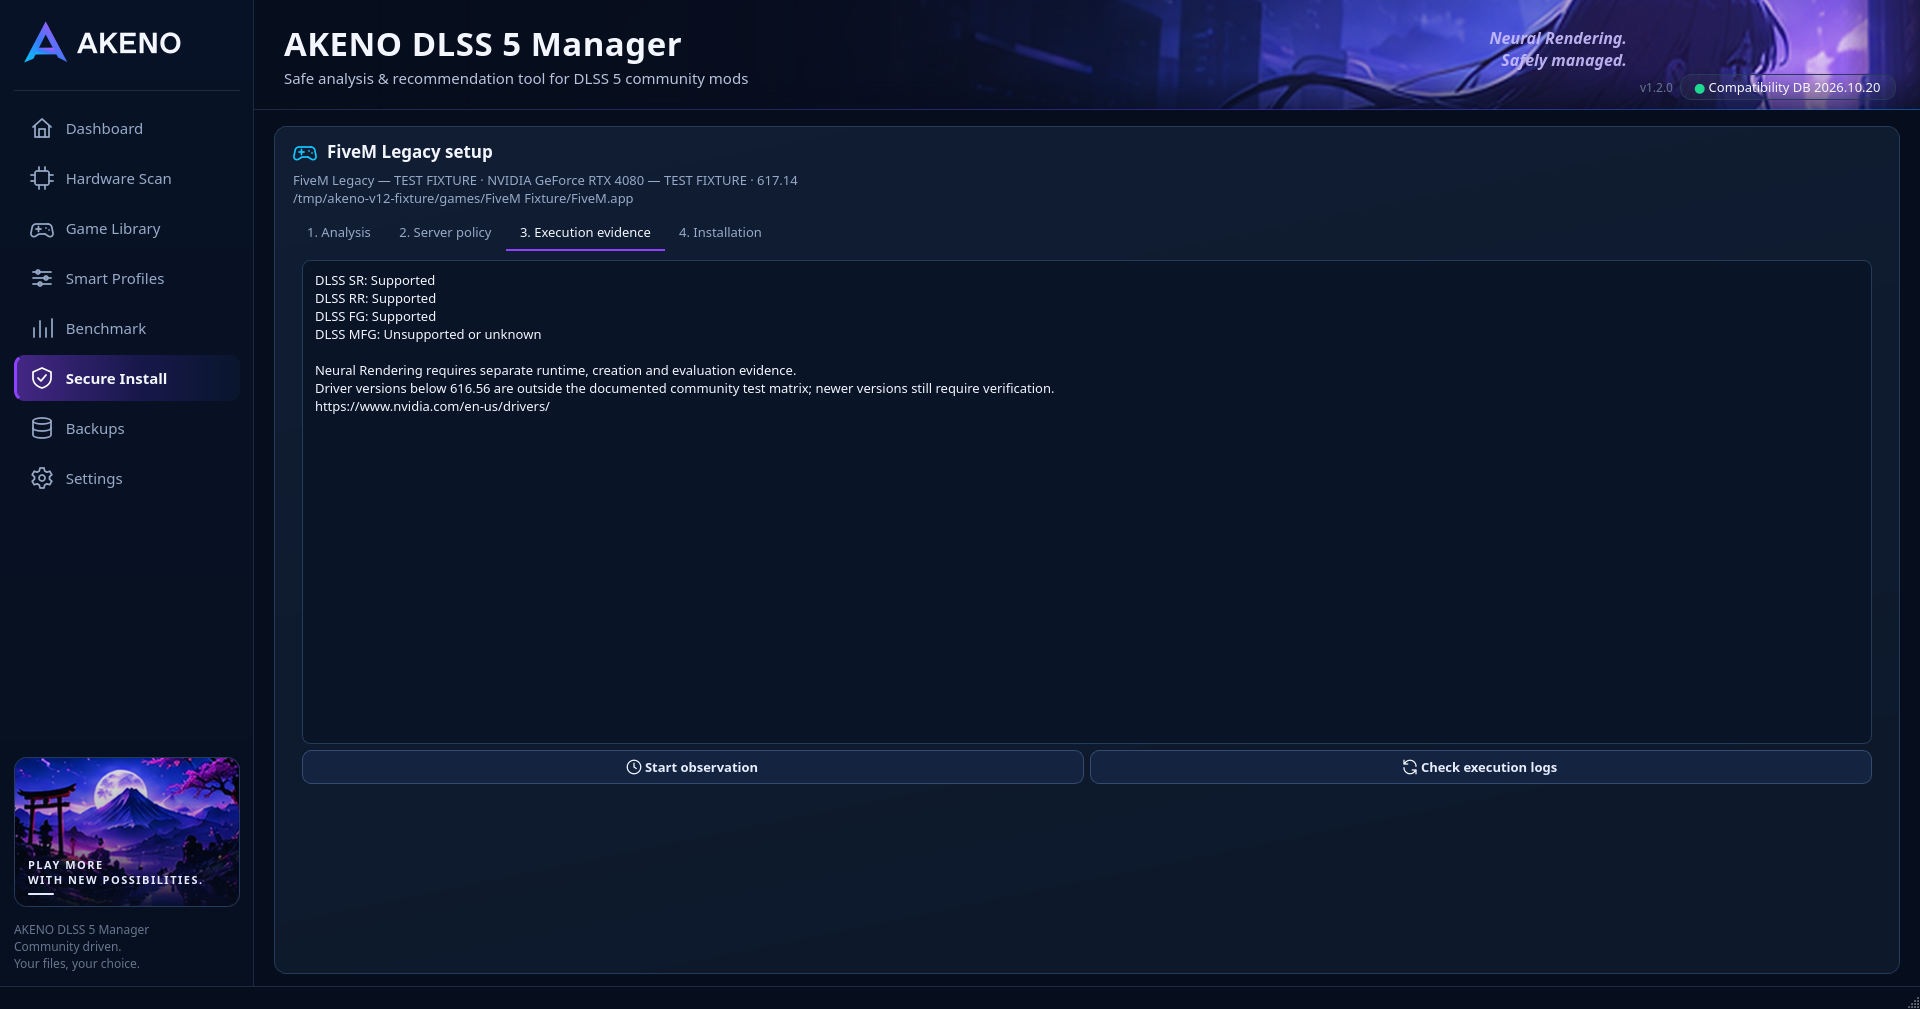
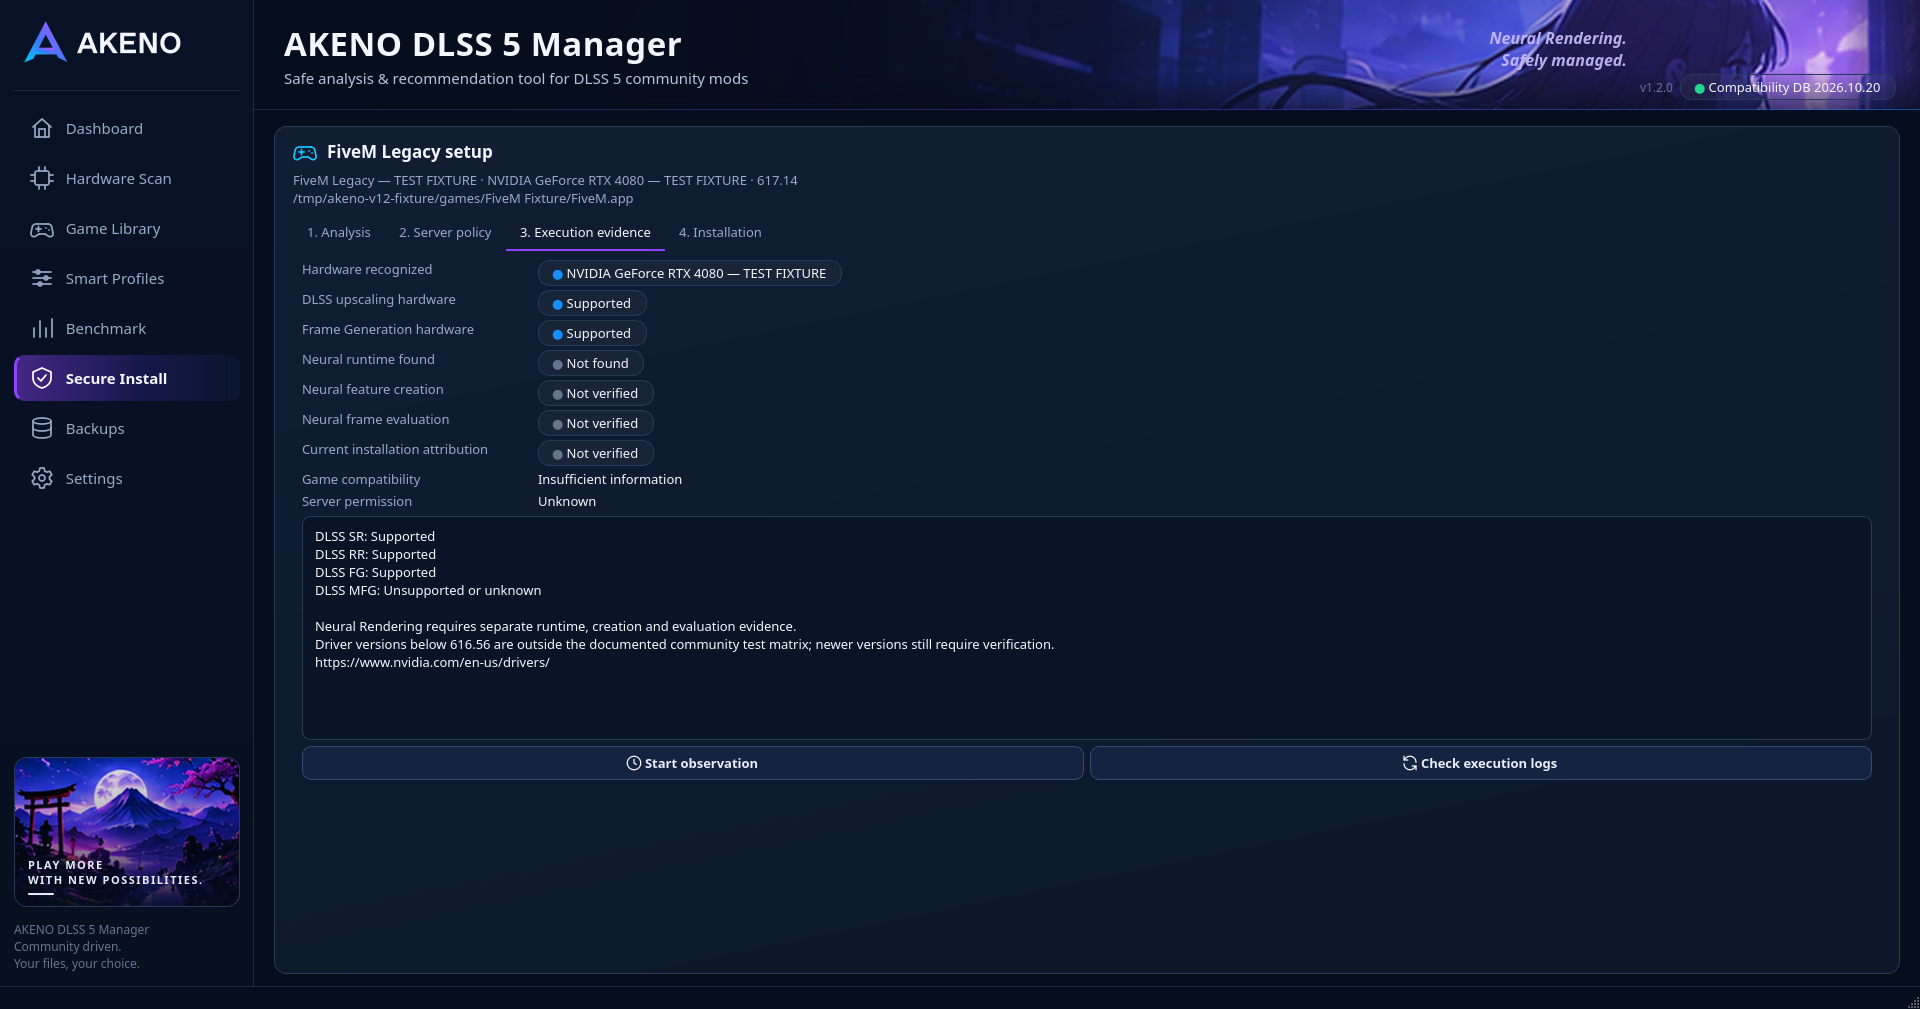
docs: record final source tests and refresh integrated FiveM screenshots

diff --git a/docs/FIVEM_LEGACY.md b/docs/FIVEM_LEGACY.md
@@ -56,7 +56,7 @@ See [FIVEM_RESEARCH.md](FIVEM_RESEARCH.md) for pinned source links and limitatio
 
 There is no automatic fallback from neural rendering to ordinary DLSS SR, frame generation, ReShade sharpening or a patched model with a "supported" label. The RTX 4080 has relevant hardware capabilities, but that is separate from this runtime/model and FiveM route being supported. The retrieved NVIDIA developer DLSS page describes DLSS 4/4.5 features; it does not establish official FiveM DLSS 5 support.
 
-## Integration contract for the launcher follow-up
+## Integrated launcher contract
 
 Use `FiveMService(app_services)` from `akeno.fivem.service`; it reuses the existing registry, catalog, compatibility database, runtime import and transactional storage. Keep the existing checkout: cloud tasks are already isolated, and no Git worktree is needed. The integration branch combines the completed v1.1 launcher and existing FiveM work. All eight pages and the original design assets are preserved.
 
@@ -73,7 +73,7 @@ for installation in five_m.discover():
     # Default has insufficient evidence, with specific missing-permission/evidence findings; deployment stays disabled.
 ```
 
-Future UI work must preserve the `FiveMInstallation` alongside its shared `Game` and keep the FiveM identity out of the generic GTA/manual discovery path. `as_raw_game` is the Game Discovery bridge; generic reanalysis alone loses FiveM-specific evidence and target rules. Do not call the generic UI install path for these plans: use `FiveMService.prepare`, `install(prepared, current_policy)` and `restore`. Do not register a permissive adapter globally or change generic safety defaults to make FiveM pass.
+All UI changes must preserve the `FiveMInstallation` alongside its shared `Game` and keep the FiveM identity out of the generic GTA/manual discovery path. `as_raw_game` is the Game Discovery bridge; generic reanalysis alone loses FiveM-specific evidence and target rules. Do not call the generic UI install path for these plans: use `FiveMService.prepare`, `install(prepared, current_policy)` and `restore`. Do not register a permissive adapter globally or change generic safety defaults to make FiveM pass.
 
 `BackendReview` is **maintainer-reviewed local evidence**, not a user-supplied JSON preference or an upstream claim. It pins the backend package, client/configuration/inventory fingerprint, relevant upstream commit, API, exact PCI GPU identity/generation, tested dedicated VRAM, tested driver versions, signed-runtime hashes, exact pre-existing plugin hashes and exact output file layout. It requires successful creation **and evaluation** of the neural feature with an unmodified NVIDIA-signed runtime. This version deliberately ships `REVIEWED_BACKENDS = ()`. Do not populate it from the synthetic test fixture.
 
@@ -91,6 +91,6 @@ The only writable application target is `FiveM.app/plugins`. A backend target vi
 4. Only after that evidence is independently reviewed, pin a backend recipe and exact plugin-loading layout. Verify licensing/provenance of ReShade, consumer, shader/input provider and every executable artifact. Keep upstream installers and broad overwrite instructions out of the AKENO transaction.
 5. Close FiveM and mod managers; create a snapshot, inspect the plan, install, and keep transaction logs. Confirm the real FiveM process loads the intended plugin/runtime and that the neural pass actually evaluates. Observe depth/motion quality, HUD/text artifacts, stability, frame times and VRAM under representative scenes. Ordinary SR/FG success is insufficient.
 6. Verify behavior under the permitted server policy, then restore and compare all original file hashes. Confirm GTX/GTA base-game files remained unchanged and test crash recovery/restore conflicts. Never claim guaranteed protection from bans.
-7. Attach logs and measured results, including failures, before considering a supported recipe or final launcher UI integration. There are currently **no real-hardware acceptance results** in this branch.
+7. Attach logs and measured results, including failures, before considering a supported production recipe. There are currently **no real-hardware acceptance results** in this branch.
 
 In v1.2 the owned-server profile is persisted per FiveM client. The wizard separates server rules, hardware capabilities, runtime inventory, neural execution evidence and deployment eligibility. Unknown compatibility is distinct from explicit policy denial/security blocks. Existing PR #1 remains the original isolated backend work; see docs/INTEGRATION_PROGRESS.md for the integrated branch.

diff --git a/docs/INTEGRATION_PROGRESS.md b/docs/INTEGRATION_PROGRESS.md
@@ -106,3 +106,10 @@ Commit/push meaningful checkpoints at most five minutes apart during active work
 - Existing FiveM diagnostic exports now include the stored server policy, compatibility findings, and exact SHA-256 catalog matches with an explicit warning that a match proves neither execution nor licensing. The analysis table displays component role/version/source/verification. Added coverage and German labels.
 - Windows fd890bb still reports 33 px dashboard overflow (232 tests passed). Shortening the VRAM note alone did not resolve it; that earlier diagnosis was incomplete. The changed exact-build uncertainty can lengthen the recommendation reason. The dashboard now elides the visible reason to one line while preserving every reason in its tooltip; the original no-scroll regression remains unchanged.
 - One targeted run caught the new untranslated Version header before commit; translation added. Final Windows packaging remains pending.
+
+## Checkpoint — final source validation and refreshed screenshots
+
+- Application commit `210d6fb203ef3258e18ea7b9f3aa59124b0add31` is pushed. Full local suite: **232 passed, 1 skipped in 48.74s**; the skip is the real Windows-only Authenticode API test. Targeted integration/layout/runtime/i18n suite: **47 passed, 1 skipped**. `git diff --check` passes.
+- Source smoke: **AKENO 1.2.0 smoke test OK**, all eight pages, 19/19 original design assets. Linux hardware scanning correctly reports Windows APIs unavailable and does not invent GPU/runtime results.
+- Refreshed English wizard/Library and German 150% screenshots from this application commit; visually inspected both languages. Fixtures remain labelled and installation remains gated.
+- Current source Windows/Linux pipeline: https://github.com/YTDxDAkeno/AKENO-DLSS-5-Manager/actions/runs/39523697460 . Pending its final tests/build, download the Windows artifact, independently verify SHA256SUMS, update PR #2 and final handover. Do not count old successful builds as validation of this snapshot.

diff --git a/docs/FIVEM_PROGRESS.md b/docs/FIVEM_PROGRESS.md
@@ -55,3 +55,7 @@
 - Final validation: 146/146 local tests passed (72 FiveM cases); repeat source smoke test passed. Remote Actions are separate from these local results; do not infer Windows/hardware success from the local run.
 - Ready for code review of the modular backend integration. Final UI wiring, real Windows/RTX 4080/FiveM-server validation and any production recipe approval remain future coordinated work. No automatic NR compatibility claim is made.
 - Continue from this branch, read the integration/research documents above, and keep five-minute commit/push checkpoints while actively working. Never reuse the synthetic test recipe as production evidence.
+
+## v1.2 integrated launcher follow-up
+
+The original isolated branch and PR #1 are preserved. Active combined work is on `codex/akeno-v1.2-fivem-integration`, draft PR #2: https://github.com/YTDxDAkeno/AKENO-DLSS-5-Manager/pull/2 . It combines Claude's v1.1 launcher with these modules and an embedded FiveM wizard. Latest pushed application checkpoint: `210d6fb`; 232 local tests passed, one Windows-only test skipped. See [INTEGRATION_PROGRESS.md](INTEGRATION_PROGRESS.md) for current checkpoints, exact CI results and remaining physical-machine acceptance work. No real FiveM/RTX 4080 NR execution has been established.

diff --git a/docs/screenshots/v1.2-fivem/README.md b/docs/screenshots/v1.2-fivem/README.md
@@ -3,3 +3,5 @@
 These PNGs are screenshots of the integrated AKENO 1.2 PySide6 application, not UI mockups. FiveM files, GPU/driver description and server policy are **TEST FIXTURES**, not a real RTX 4080 or real server. The screenshots deliberately show missing verification/permission and disabled installation rather than invented success.
 
 Generate with `python tools/fivem_fixture.py HOME GAMES`, then `AKENO_HOME=HOME QT_QPA_PLATFORM=offscreen python -m akeno --screenshot OUTPUT`. The command captures all eight pages and all four FiveM tabs. Windows Actions additionally renders the fixture at 150% and uploads its screenshots. No fixture DLL/add-on is executed.
+
+Refreshed from application commit `210d6fb` (English normal scale, German 150%). No runtime or FiveM server was executed.
